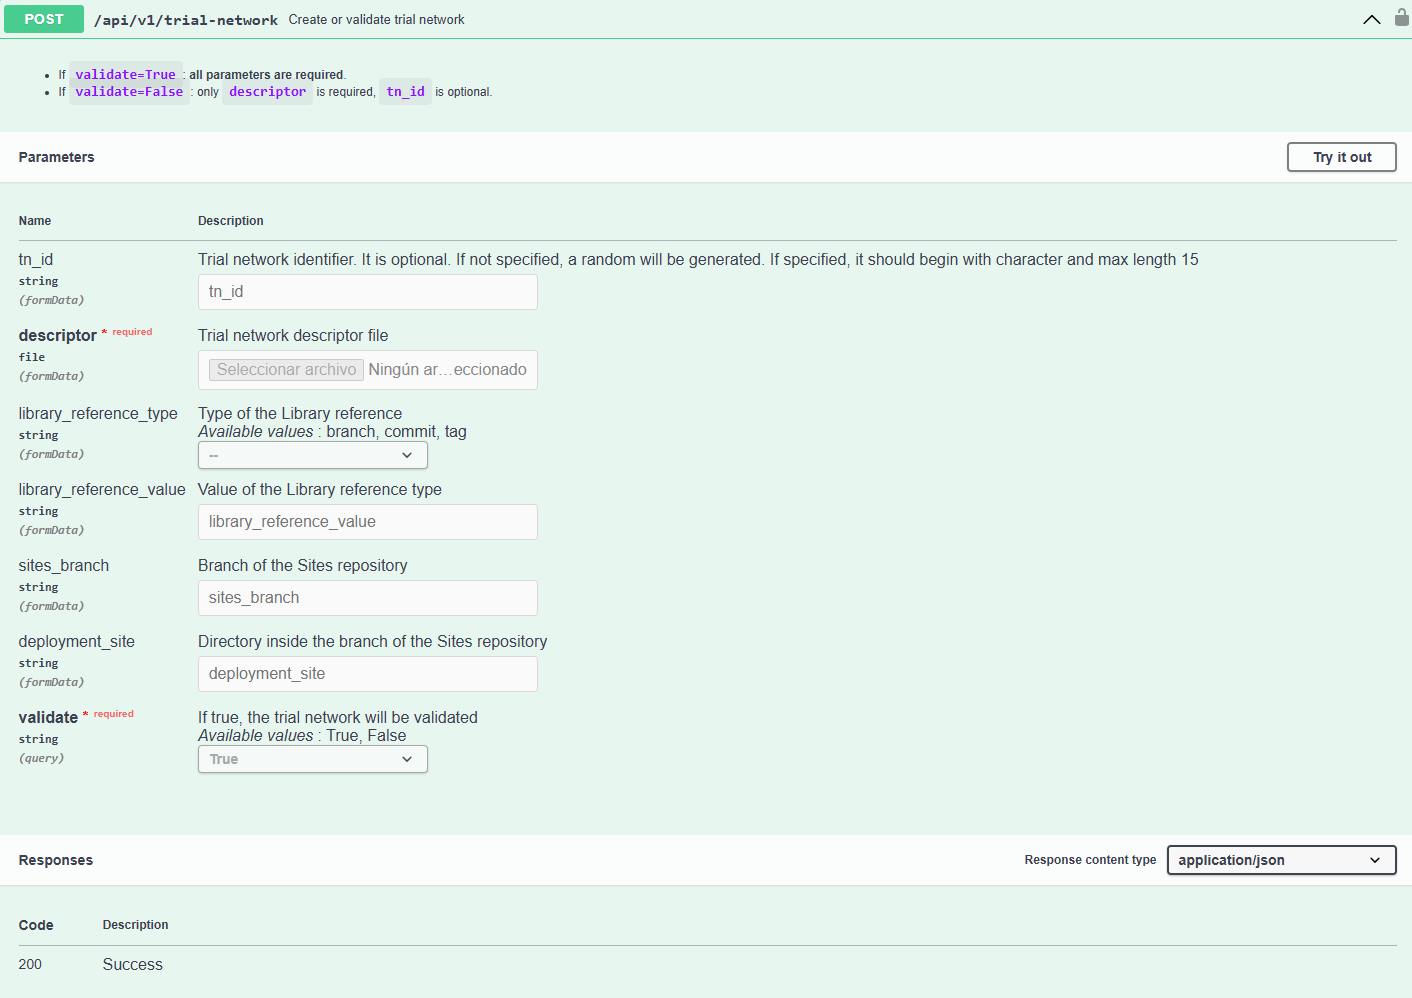
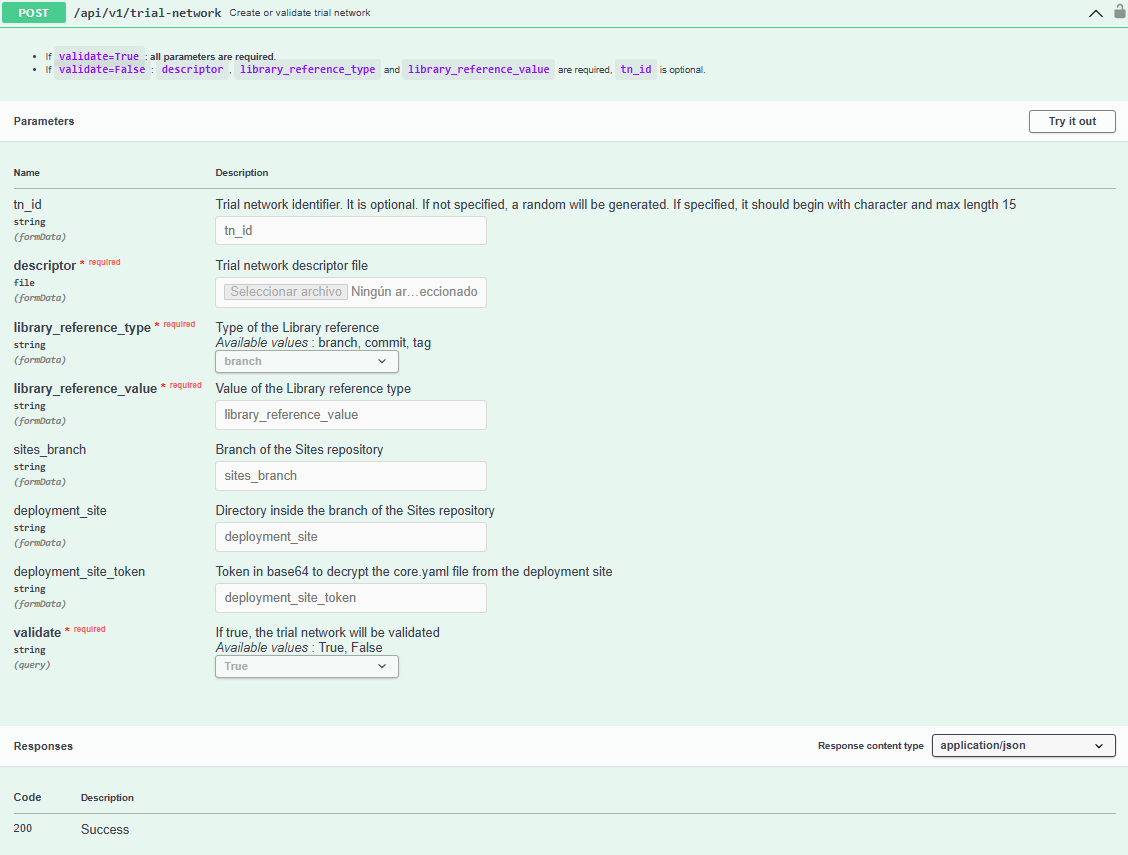
fix: tnlcm docs

diff --git a/docs/tnlcm/database-schema.md b/docs/tnlcm/database-schema.md
@@ -16,7 +16,6 @@ TNLCM database, created with MongoDB, consists of several collections that store
 | `component` | string  | Component over which resources are controlled     |
 | `tn_id`     | string  | ID of the trial network                           |
 | `quantity`  | integer | Amount of component available                     |
-| `ttl`       | float   | Time the component can be used in a trial network |
 
 ### Collection `trial_network`
 
@@ -26,20 +25,18 @@ TNLCM database, created with MongoDB, consists of several collections that store
 | `tn_id`                             | string   | ID of the trial network (primary key)      |
 | `state`                             | string   | State of the trial network                 |
 | `date_created_utc`                  | date     | Creation date and time in UTC              |
+| `directory_path`                    | string   | Directory where trial network is saved     |
 | `raw_descriptor`                    | dict     | Raw descriptor of the trial network        |
 | `sorted_descriptor`                 | dict     | Sorted descriptor                          |
 | `deployed_descriptor`               | dict     | Current status of descriptor               |
-| `report`                            | markdown | Report related to the trial network        |
-| `directory_path`                    | string   | Directory where trial network is saved     |
-| `jenkins_deploy_pipeline`           | string   | Pipeline for descriptor deployment         |
-| `jenkins_destroy_pipeline`          | string   | Pipeline for destroying trial network      |
-| `deployment_site`                   | string   | Deployment site of trial network           |
-| `input`                             | dict     | YAML files per entity-name sent to Jenkins |
-| `output`                            | dict     | JSON received by Jenkins per entity-name   |
+| `jenkins_deploy`                    | dict     | Information about the deploy pipeline      |
+| `jenkins_destroy`                   | dict     | Information about the destroy pipeline     |
 | `library_https_url`                 | string   | Library github https url                   |
 | `library_commit_id`                 | string   | Library commit ID                          |
 | `sites_https_url`                   | string   | Sites github https url                     |
 | `sites_commit_id`                   | string   | Sites commit ID                            |
+| `deployment_site`                   | string   | Deployment site of trial network           |
+| `report`                            | markdown | Report related to the trial network        |
 
 ### Collection `user`
 

diff --git a/docs/tnlcm/swagger-ui.md b/docs/tnlcm/swagger-ui.md
@@ -49,6 +49,7 @@ Fill in the following fields:
 - `library_reference_value`: value corresponding to the type specified in the `library_reference_type` field.
 - `sites_branch`: must be one of the branches available in the [6G-Sandbox-Sites](https://github.com/6G-SANDBOX/6G-Sandbox-Sites) repository.
 - `deployment_site`: must be one directory of the `sites_branch` specified.
+- `deployment_site_token`: token to decrypt the deployment site yaml file.
 - `validate`: if true, the descriptor file will be validated and required all the parameters to be filled in. If false, the descriptor file will not be validated and some parameters can be left blank.
 
 ## Deploy trial network
@@ -82,19 +83,3 @@ Once logged into TNLCM, the trial network has been created, deployed and destroy
 Fill in the following fields:
 
 - `tn_id`: the identifier of the trial network received in the [POST request](#create-trial-network).
-
-## Use Hoppscotch
-
-Hoppscotch is a free API request builder that allows you to make requests to the TNLCM API. To use it:
-
-- Go to the official website [Hoppscotch](https://hoppscotch.io/)
-- Install the [extension](https://chromewebstore.google.com/detail/hoppscotch-browser-extens/amknoiejhlmhancpahfcfcfhllgkpbld) in your browser and enable it
-- Once enabled, access the TNLCM API URL and open the extension. Add a new origin, which is the TNLCM API URL, as shown in the image:
-
-<p align="center">
-    ![hoppscotchOrigin](./images/hoppscotchOrigin.png)
-</p>
-
-- In the [Hoppscotch settings](https://hoppscotch.io/settings), select extensions in the interceptor section
-- Next, import the JSON file located in the [hoppscotch](https://github.com/6G-SANDBOX/TNLCM/tree/main/hoppscotch) directory of the TNLCM repository
-- Finally, proceed to make requests following the order of the HTTP methods

diff --git a/docs/tnlcm/descriptor-schema.md b/docs/tnlcm/descriptor-schema.md
@@ -26,7 +26,7 @@ trial_network: # Mandatory, contains the description of all entities in the Tria
 
 The TNLCM repository contains some advanced descriptors. Access the [documentation](https://github.com/6G-SANDBOX/TNLCM/blob/main/tn_template_lib/README.md) to see what is defined in each of them.
 
-- [elcm](https://github.com/6G-SANDBOX/TNLCM/blob/main/tn_template_lib/elcm.yaml) - **should work on all platforms**. Reference trial network defined for experimentation.
+- [elcm_loadcore_open5gs_vm](https://github.com/6G-SANDBOX/TNLCM/blob/main/tn_template_lib/elcm_loadcore_open5gs_vm.yaml) - **should work on all platforms**. Reference trial network defined for experimentation.
 - [loadcore_open5gs_vm.yaml](https://github.com/6G-SANDBOX/TNLCM/blob/main/tn_template_lib/loadcore_open5gs_vm.yaml) - **should work on all platforms**. Reference trial network defined in WP5.
 - [ueransim_split_open5gs_k8s.yaml](https://github.com/6G-SANDBOX/TNLCM/blob/main/tn_template_lib/ueransim_split_open5gs_k8s.yaml) - **should work on all platforms**. First end-to-end trial network.
 

diff --git a/docs/tnlcm/home.md b/docs/tnlcm/home.md
@@ -26,7 +26,6 @@ TNLCM/                       // main directory.
 │  ├─ sites/                 // directory that handler the connection to the Sites repository.
 │  └─ utils/                 // directory that handler data conversions and storage in YAML, Markdown and JSON formats.
 ├─ docs/                     // directory where documentation is stored.
-├─ hoppscotch/               // directory that contains the Hoppscotch collection for testing the API.
 ├─ scripts/                  // directory contains scripts for automated deployments.
 ├─ tn_template_lib/          // directory that trial network descriptors templates are stored.
 ├─ .env.template             // file that contains placeholder environment variables for configuring the application.
